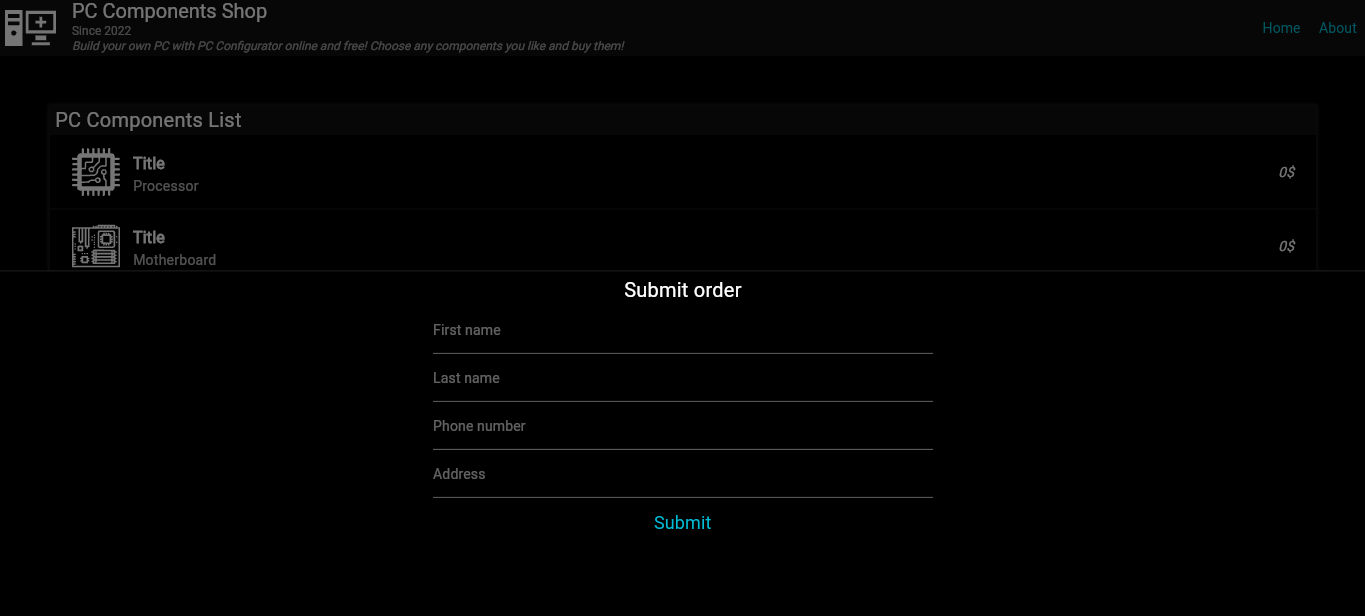
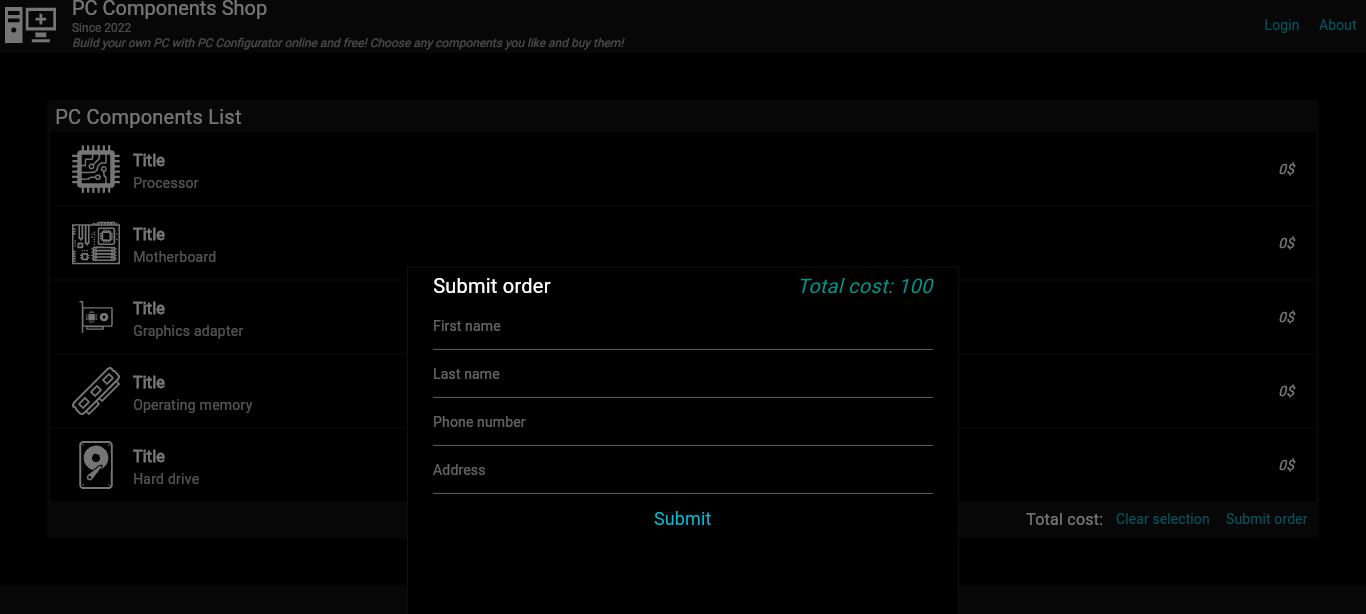
Programming the interface and the logic

diff --git a/lib/pages/homePage.dart b/lib/pages/homePage.dart
@@ -99,7 +99,7 @@ class _HomePageState extends State<HomePage> {
                   style: TextStyle(fontSize: 20)
                 ),
                 Text(
-                  ' $totalCost${100}', // TODO
+                  ' $totalCost${100}\$', // TODO
                   style: TextStyle(
                     fontSize: 20,
                     color: Colors.teal,
